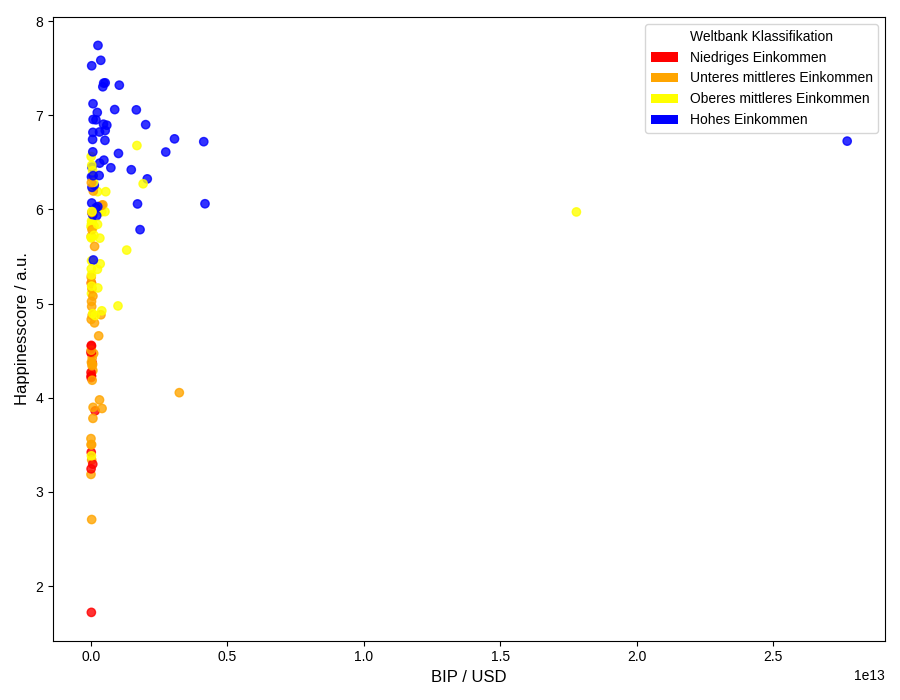
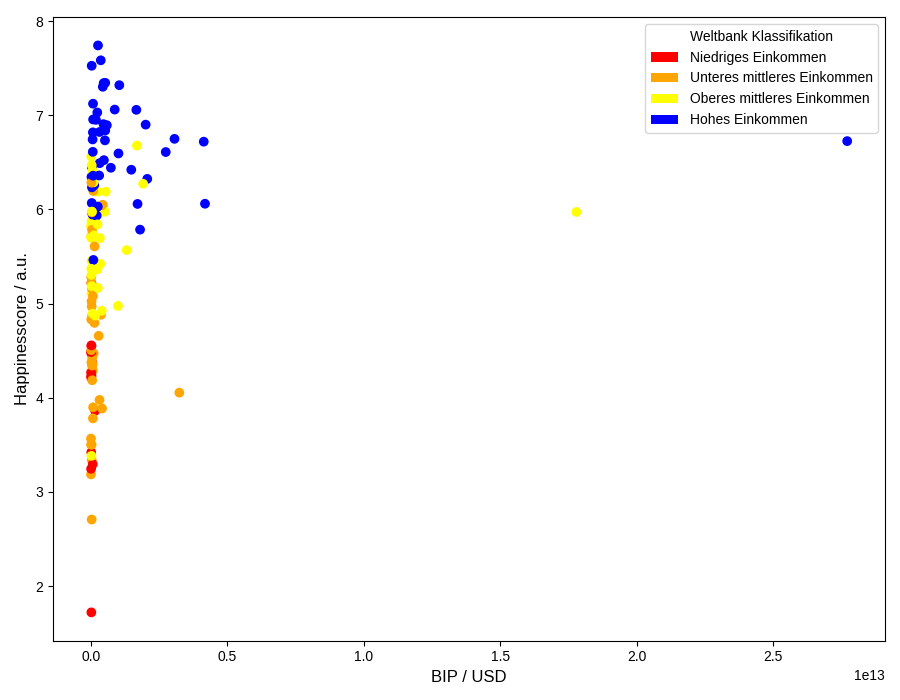
Added Gender specific Life expectancy plots

diff --git a/plotting.py b/plotting.py
@@ -4,6 +4,7 @@ import numpy as np
 from matplotlib import pyplot as plt
 from matplotlib.patches import Patch
 import seaborn as sns
+from matplotlib.lines import Line2D
 # %%
 df = pd.read_parquet("combined2023_df.parquet")
 countries = {"Germany", "United States of America", "Norway", "Iceland", "China", "India", "Mali", "Afghanistan", "Japan", "Finnland", "Argentina", "Austrailia","Egypt"}
@@ -56,7 +57,6 @@ plt.scatter(
     df_plot["Life_Expectancy_at_Birth"],
     df_plot["Life evaluation (3-year average)"],
     c=colors,
-    alpha=0.8,
     edgecolors="k",
     linewidths=0.3
 )
@@ -67,13 +67,82 @@ plt.xlabel("Lebenserwartung bei Geburt / Jahre", fontsize=12)
 plt.legend(
     handles=legend_handles,
     title="Weltbank Klassifikation",
-    loc="lower right",
+    loc="upper left",
     fontsize=12
 )
 
 plt.tight_layout()
 plt.savefig("/home/soeke/pb321-BigData/figures/plot-Happiness-Lebenserwartung.png")
 plt.show()
+
+# %% Happiness vs life expectancy with linear regression
+df_plot = df.dropna(subset=[
+    "Life evaluation (3-year average)",
+    "Life_Expectancy_at_Birth",
+    "world_bank_classification"
+])
+
+x = df_plot["Life_Expectancy_at_Birth"].values
+y = df_plot["Life evaluation (3-year average)"].values
+
+# linear regression
+a, b = np.polyfit(x, y, 1)
+
+x_fit = np.linspace(x.min(), x.max(), x.size)
+y_fit = a * x_fit + b
+
+# R²
+y_pred = a * x + b
+ss_res = np.sum((y - y_pred)**2)
+ss_tot = np.sum((y - y.mean())**2)
+r2 = 1 - ss_res / ss_tot
+
+colors = df_plot["world_bank_classification"].map(color_map)
+
+plt.figure(figsize=(9, 7))
+
+fit_line, = plt.plot(
+    x_fit,
+    y_fit,
+    color="black",
+    linestyle="dashed",
+    linewidth=2,
+    label=rf"Lineare Regression, $R^2 = {r2:.2f}$"
+)
+
+plt.scatter(
+    x,
+    y,
+    c=colors,
+    edgecolors="k",
+    linewidths=0.3
+)
+
+plt.xlabel("Lebenserwartung bei Geburt / Jahre", fontsize=12)
+plt.ylabel("Happinesscore / a.u.", fontsize=12)
+
+plt.legend(
+    handles=legend_handles + [fit_line],
+    title="Weltbank Klassifikation",
+    loc="upper left",
+    fontsize=12
+)
+
+plt.tight_layout()
+plt.savefig("/home/soeke/pb321-BigData/figures/plot-Happiness-Lebenserwartung-regression.png")
+plt.show()
+
+plt.figure(figsize=(8, 5))
+plt.scatter(x, np.abs(y-y_fit))
+plt.axhline(0, color="black", linestyle="dashed", linewidth=1)
+
+plt.xlabel("Lebenserwartung bei Geburt / Jahre")
+plt.ylabel("Residuen (Happiness)")
+plt.title("Residual plot – zunehmende Streuung bei kleiner Lebenserwartung")
+
+plt.tight_layout()
+plt.show()
+
 # %% Happiness vs education
 df_plot = df.dropna(subset=[
     "Life evaluation (3-year average)",
@@ -87,8 +156,7 @@ plt.figure(figsize=(9, 7))
 plt.scatter(
     df_plot["expected_years_of_schooling"],
     df_plot["Life evaluation (3-year average)"],
-    c=colors,
-    alpha=0.8
+    c=colors
 )
 
 plt.ylabel("Happinesscore / a.u.", fontsize=12)
@@ -98,9 +166,6 @@ plt.legend(handles=legend_handles, title="Weltbank Klassifikation")
 plt.tight_layout()
 plt.savefig("/home/soeke/pb321-BigData/figures/plot-Happiness-Bildung.png")
 plt.show()
-
-
-# %% Hapiness vs health
 
 
 # %% log(GDP) over Happiness
@@ -116,8 +181,7 @@ plt.figure(figsize=(9, 7))
 plt.scatter(
     df_plot["gdp"],
     df_plot["Life evaluation (3-year average)"],
-    c=colors,
-    alpha=0.8
+    c=colors
 )
 
 plt.ylabel("Happinesscore / a.u.", fontsize=12)
@@ -170,8 +234,7 @@ fit_line, = plt.plot(
 plt.scatter(
     df_plot["gdp_per_capita"],
     df_plot["Life evaluation (3-year average)"],
-    c=colors,
-    alpha=0.8
+    c=colors
 )
 
 
@@ -202,8 +265,7 @@ plt.scatter(
     df_hi["gdp_per_capita"],
     df_hi["Life evaluation (3-year average)"],
     c=color_map["High income"],
-    alpha=0.8,
-    label="High income"
+    label="Hohes Einkommen"
 )
 
 plt.ylabel("Happinesscore / a.u.", fontsize=12)
@@ -256,6 +318,92 @@ sns.heatmap(
 plt.tight_layout()
 plt.savefig("/home/soeke/pb321-BigData/figures/plot-correlation-Heatmap.png")
 plt.show()
+
+#%% Life expectancy vs gdp
+df_plot = df.dropna(subset=[
+    "Life_Expectancy_at_Birth",
+    "Male_Life_Expectancy_at_Birth",
+    "Female_Life_Expectancy_at_Birth",
+    "gdp_per_capita",
+    "world_bank_classification"
+])
+
+color_map = {
+    "Low income": "red",
+    "Lower middle income": "orange",
+    "Upper middle income": "gold",
+    "High income": "blue",
+}
+
+# Drop rows with unknown classifications
+df_plot = df_plot[df_plot["world_bank_classification"].isin(color_map)]
+
+colors = df_plot["world_bank_classification"].map(color_map)
+
+plt.figure(figsize=(9, 7))
+plt.scatter(
+    df_plot["gdp_per_capita"],
+    df_plot["Life_Expectancy_at_Birth"],
+    c=colors
+)
+
+plt.xlabel("BIP pro Einwohner / USD")
+plt.ylabel("Lebenserwartung / Jahre")
+plt.xscale("log")
+
+plt.legend(handles=legend_handles, title="Weltbank Klassifikation",loc="upper left")
+plt.tight_layout()
+plt.savefig("/home/soeke/pb321-BigData/figures/plot-BIP_pro_Einwohner-Lebenserwartung.png")
+plt.show()
+
+plt.figure(figsize=(9, 7))
+
+plt.scatter(
+    df_plot["gdp_per_capita"],
+    df_plot["Male_Life_Expectancy_at_Birth"],
+    color="blue",
+    label="Männliche Lebenserwartung"
+)
+
+plt.scatter(
+    df_plot["gdp_per_capita"],
+    df_plot["Female_Life_Expectancy_at_Birth"],
+    color="pink",
+    label="Weibliche Lebenserwartung"
+)
+
+plt.xlabel("BIP pro Einwohner / USD")
+plt.ylabel("Lebenserwartung / Jahre")
+plt.xscale("log")
+
+plt.legend(loc="upper left")
+plt.tight_layout()
+plt.savefig("/home/soeke/pb321-BigData/figures/plot-BIP_pro_Einwohner-Lebenserwartung-MannFrau.png")
+plt.show()
+
+
+gender_gap = (
+    df_plot["Female_Life_Expectancy_at_Birth"]
+    - df_plot["Male_Life_Expectancy_at_Birth"]
+)
+
+plt.figure(figsize=(9, 7))
+plt.scatter(
+    df_plot["gdp_per_capita"],
+    gender_gap,
+    c=colors,
+)
+
+plt.xlabel("GDP per capita (USD)")
+plt.ylabel("Differenz Lebenserwartung (Weiblich - Männlich) / Jahre")
+plt.xscale("log")
+
+plt.legend(handles=legend_handles, title="Weltbank Klassifikation",loc="upper left")
+plt.tight_layout()
+plt.savefig("/home/soeke/pb321-BigData/figures/plot-BIP_pro_Einwohner-Lebenserwartung-Differenz.png")
+plt.show()
+
+
 #%% Individual countries: Happiness score
 df_plot = df_sel.sort_values("Life evaluation (3-year average)")
 
@@ -276,10 +424,6 @@ plt.barh(
 )
 
 plt.xlabel("Happinesscore / a.u.", fontsize=12)
-legend_handles = [
-    Patch(facecolor=color, label=label)
-    for label, color in color_map.items()
-]
 
 plt.legend(
     handles=legend_handles,
@@ -311,7 +455,7 @@ plt.barh(
     color=colors
 )
 
-plt.xlabel("BIP pro EInwohner / USD", fontsize=12)
+plt.xlabel("BIP pro Einwohner / USD", fontsize=12)
 legend_handles = [
     Patch(facecolor=color, label=label)
     for label, color in color_map.items()
